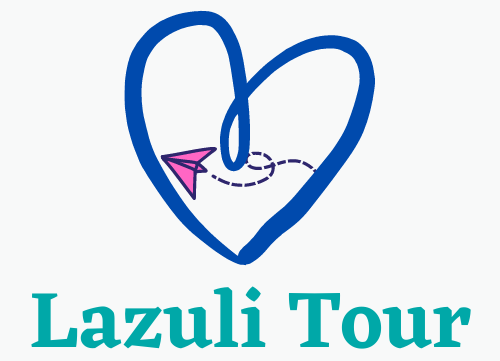
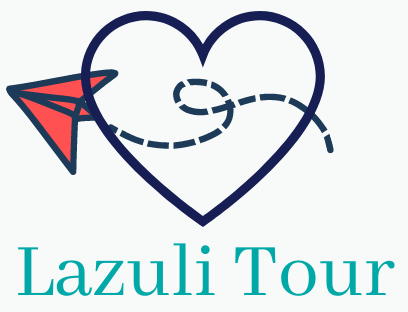
alteração de logomarca e alteração do espaçamento entre as imagens de passagens, documentos e etc

Changed region(s): [[0.0, 0.0288, 0.8235, 0.75], [0.0294, 0.7788, 0.5294, 0.9808], [0.5588, 0.7788, 0.9706, 0.9808]]

diff --git a/index.html b/index.html
@@ -97,37 +97,37 @@
             </div>
 
           <div class="row">
-            <div class="col-xl-4 col-md-6">
+            <div class="col-xl-4 col-md-6 p-4">
               <div class="icone d-flex justify-content-center"><img src="img/icones/passaporte.svg" alt="passaporte"></div>
               <h3>Documentos</h3>
               <p>Verifique aqui os documentos necessários para sua viagem</p>            
             </div> 
 
-            <div class="col-xl-4 col-md-6">
+            <div class="col-xl-4 col-md-6 p-4">
               <div class="icone d-flex justify-content-center"><img src="img/icones/passagens.svg" alt="passagens"></div>
               <h3>Passagens</h3>
               <p>Faça a compra de suas passagens de forma rápida e segura</p>            
             </div>
 
-            <div class="col-xl-4 col-md-6">
+            <div class="col-xl-4 col-md-6 p-4">
               <div class="icone d-flex justify-content-center"><img src="img/icones/translado.svg" alt="translado"></div>              
               <h3>Translado</h3>
               <p>Transporte-se entre um ponto e outro com a qualidade de segurança da Lazuli</p>            
             </div>  
 
-            <div class="col-xl-4 col-md-6 p-5">
+            <div class="col-xl-4 col-md-6 p-4">
               <div class="icone d-flex justify-content-center"><img src="img/icones/bagagens.svg" alt="bagagens"></div>              
               <h3>Bagagens</h3>
               <p>Sem limite de bagagens</p>            
             </div> 
 
-            <div class="col-xl-4 col-md-6 p-5">
+            <div class="col-xl-4 col-md-6 p-4">
               <div class="icone d-flex justify-content-center"><img src="img/icones/praias.svg" alt="praias"></div>              
               <h3>Praias</h3>
               <p>Garantimos seus passeios para conhecer as melhores praias de todas as regiões</p>            
             </div> 
 
-            <div class="col-xl-4 col-md-6 p-5">
+            <div class="col-xl-4 col-md-6 p-4">
               <div class="icone d-flex justify-content-center"><img src="img/icones/turismo.svg" alt="turismo"></div>              
               <h3>Turismo</h3>
               <p>As melhores vistas para os melhores pontos turísticos</p>            
